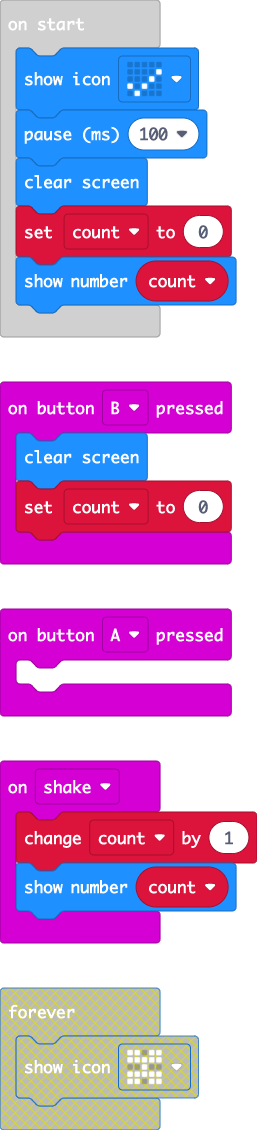
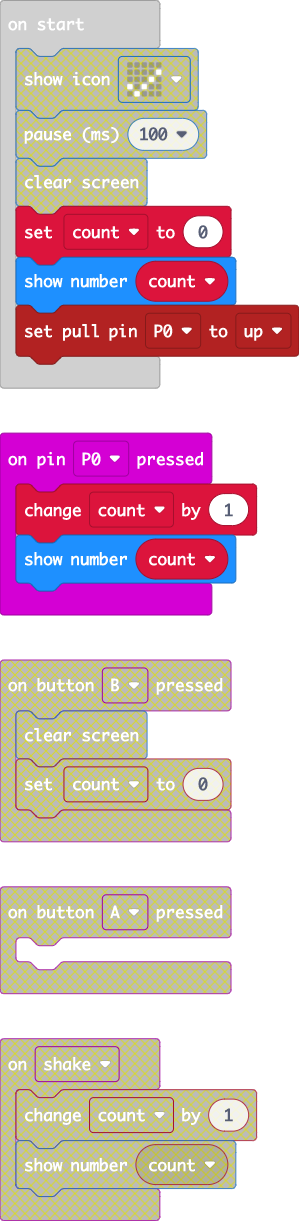
using black cord clips and black cord clips

diff --git a/main.ts b/main.ts
@@ -1,17 +1,8 @@
-input.onButtonPressed(Button.A, function () {
-	
-})
-input.onButtonPressed(Button.B, function () {
-    basic.clearScreen()
-    count = 0
-})
-input.onGesture(Gesture.Shake, function () {
+input.onPinPressed(TouchPin.P0, function () {
     count += 1
     basic.showNumber(count)
 })
 let count = 0
-basic.showIcon(IconNames.Yes)
-basic.pause(100)
-basic.clearScreen()
+pins.setPull(DigitalPin.P0, PinPullMode.PullUp)
 count = 0
 basic.showNumber(count)
